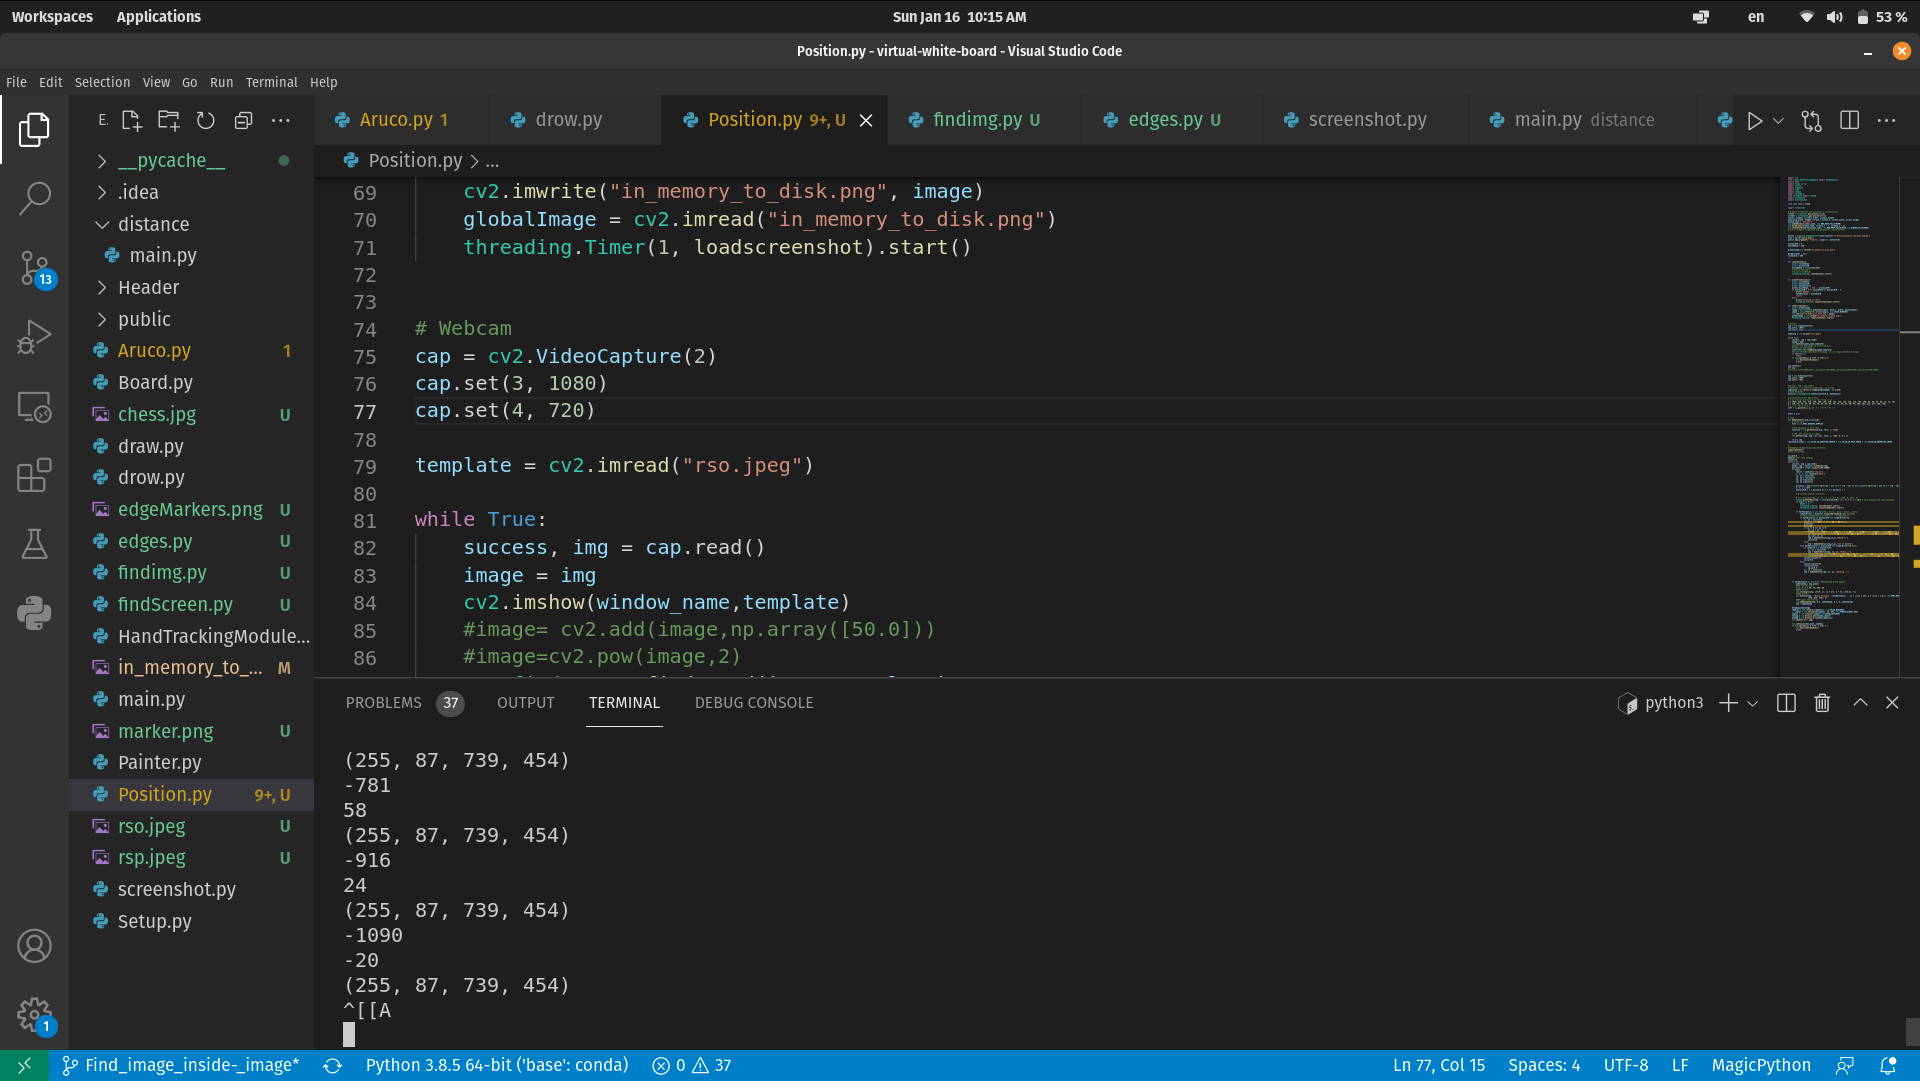
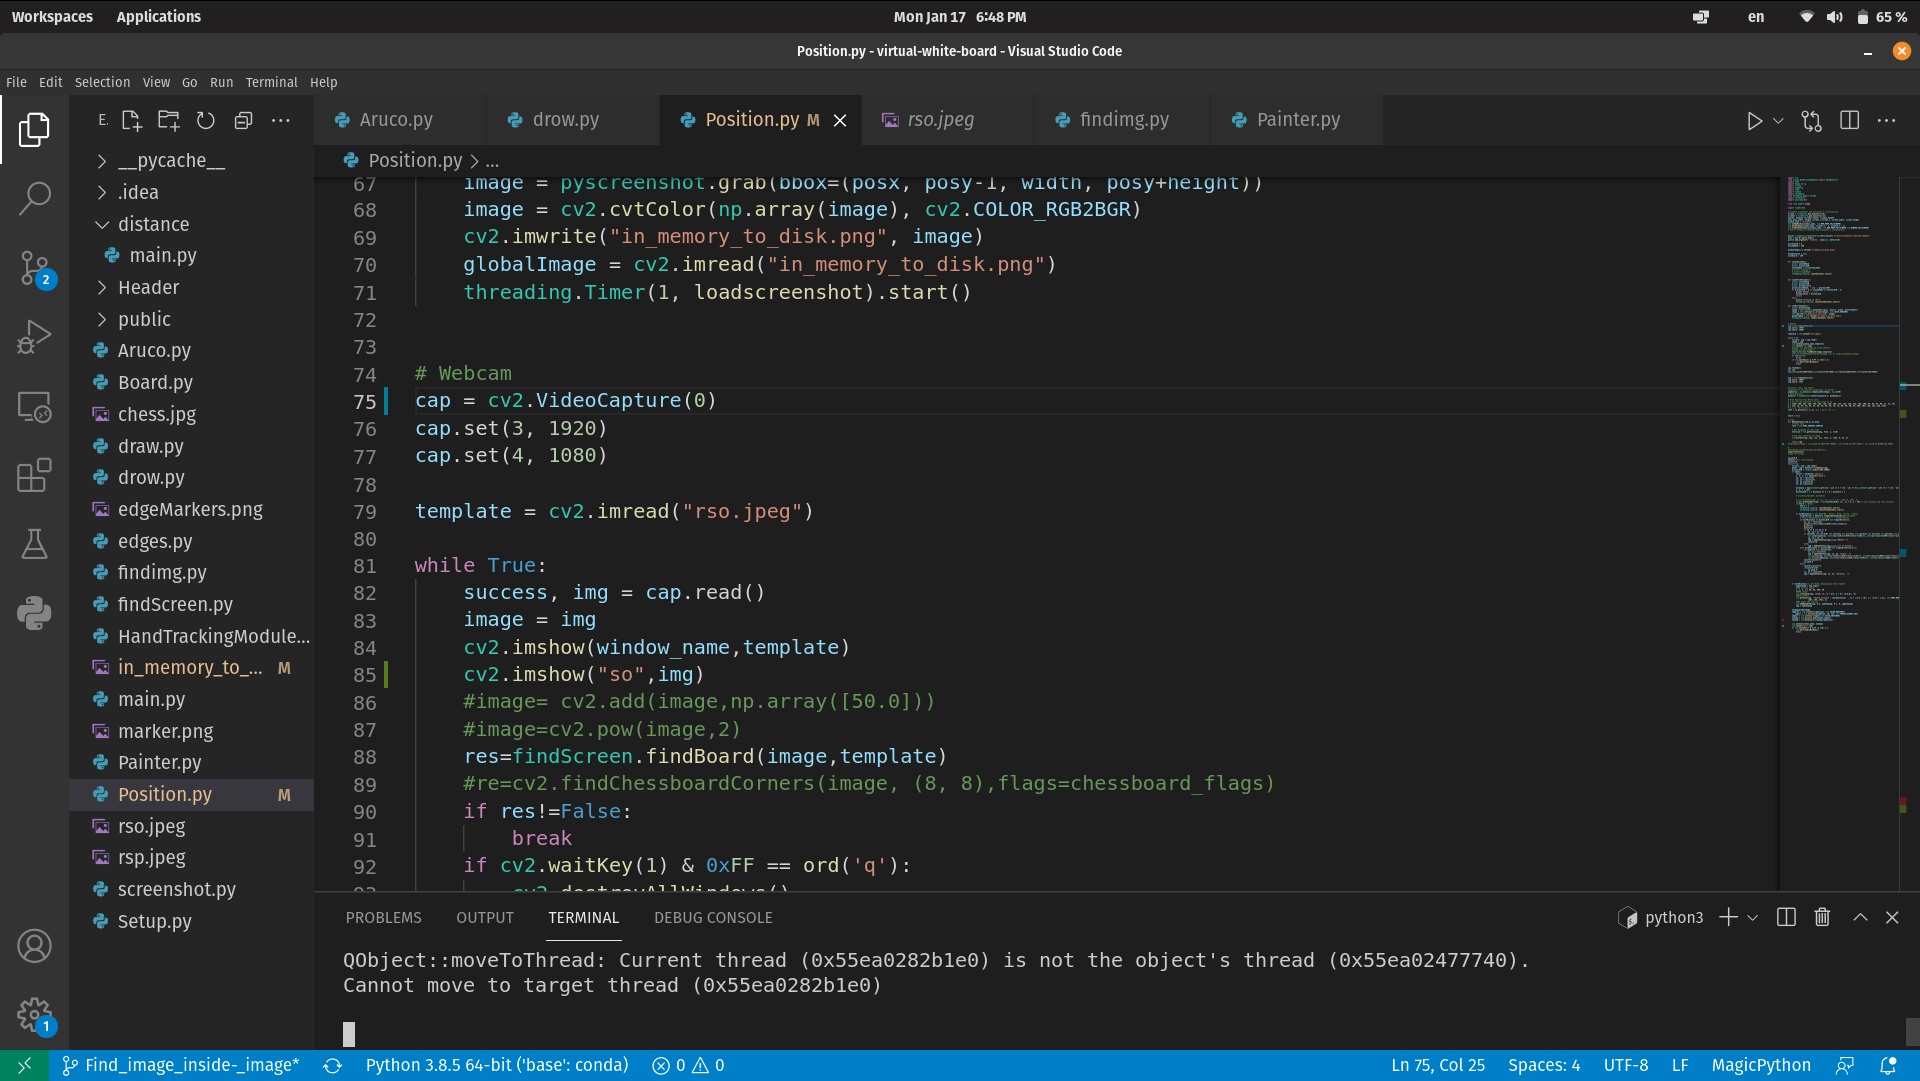
findEdges

diff --git a/Position.py b/Position.py
@@ -14,6 +14,7 @@ import pyscreenshot
 from time import sleep
 
 import findScreen
+from edges import findEdges
 
 # prepare screenshot and projectot's coordinations
 screen = screeninfo.get_monitors()[0]
@@ -73,18 +74,21 @@ def loadscreenshot():
 
 # Webcam
 cap = cv2.VideoCapture(2)
-cap.set(3, 1920)
-cap.set(4, 1080)
-
-template = cv2.imread("rso.jpeg")
+cap.set(2, 1080)
+cap.set(2, 720)
+cap.set(cv2.CAP_PROP_AUTOFOCUS, 0)
+template = cv2.imread("whitescreen.jpeg")
+cv2.rectangle(template,(10,0),(474,266) , (0,0,0), 10)
 
 while True:
     success, img = cap.read()
     image = img
     cv2.imshow(window_name,template)
-    #image= cv2.add(image,np.array([50.0]))
+    cv2.imshow("so",img)
+    image= cv2.add(image,np.array([55.0]))
     #image=cv2.pow(image,2)
-    res=findScreen.findBoard(image,template)
+    #res=findScreen.findBoard(image,template)
+    res=findEdges(image)
     #re=cv2.findChessboardCorners(image, (8, 8),flags=chessboard_flags)
     if res!=False:
         break
@@ -130,7 +134,7 @@ def UpdateStatus(img,xs,ys,msg):
     cv2.putText(img, msg, (xs, ys), font, 1, (255, 0, 0), 4)
 
     return img
-chessboard_flags = cv2.CALIB_CB_ADAPTIVE_THRESH + cv2.CALIB_CB_FAST_CHECK + cv2.CALIB_CB_NORMALIZE_IMAGE
+#chessboard_flags = cv2.CALIB_CB_ADAPTIVE_THRESH + cv2.CALIB_CB_FAST_CHECK + cv2.CALIB_CB_NORMALIZE_IMAGE
 
 #
 #threading.Thread(target=startBoard())
@@ -219,9 +223,9 @@ while True:
     imgInv = cv2.cvtColor(imgInv,cv2.COLOR_GRAY2BGR)
     newImg = cv2.bitwise_and(newImg,imgInv)
     newImg = cv2.bitwise_or(newImg,imgCanvas)
-    cv2.imshow("pic",img)
 
     cv2.imshow(window_name, newImg)
+    cv2.imshow("pic",img)
     if cv2.waitKey(1) & 0xFF == ord('q'):
         cv2.destroyAllWindows()
         break

diff --git a/edges.py b/edges.py
@@ -1,17 +1,29 @@
-import numpy as np
 import cv2
+import numpy as np
 
-cap = cv2.VideoCapture(0)
+def findEdges(recimg):
+    img = recimg
+    cv2.imshow("1",img)
+    #Grayscale
+    gray = cv2.cvtColor(img, cv2.COLOR_BGR2GRAY)
 
-while True:
-    _, frame = cap.read()
-    gray = cv2.cvtColor(frame, cv2.COLOR_BGR2GRAY)
-    edges = cv2.Canny(gray, 30, 100)
-    chess=cv2.imread("chess.jpg")
-    cv2.imshow("edges", edges)
-    cv2.imshow("gray", gray)
-    if cv2.waitKey(1) == ord("q"):
-        break
+    #Binarization
+    ret,th1 = cv2.threshold(gray,200,255,cv2.THRESH_BINARY)
+    cv2.imshow("2",th1)
+    contours, hierarchy = cv2.findContours(th1, cv2.RETR_TREE, cv2.CHAIN_APPROX_SIMPLE)
 
-cap.release()
-cv2.destroyAllWindows()
+    #Sort only those with a large area
+    areas = []
+    for cnt in contours:
+        area = cv2.contourArea(cnt)
+        if area > 10000:
+            epsilon = 0.1*cv2.arcLength(cnt,True)
+            approx = cv2.approxPolyDP(cnt,epsilon,True)
+            areas.append(approx)
+    
+            
+    
+    cv2.drawContours(img,areas,-1,(0,255,0),3)
+    cv2.imshow("3",img)
+    print("areas are"+str(areas))
+    return False
